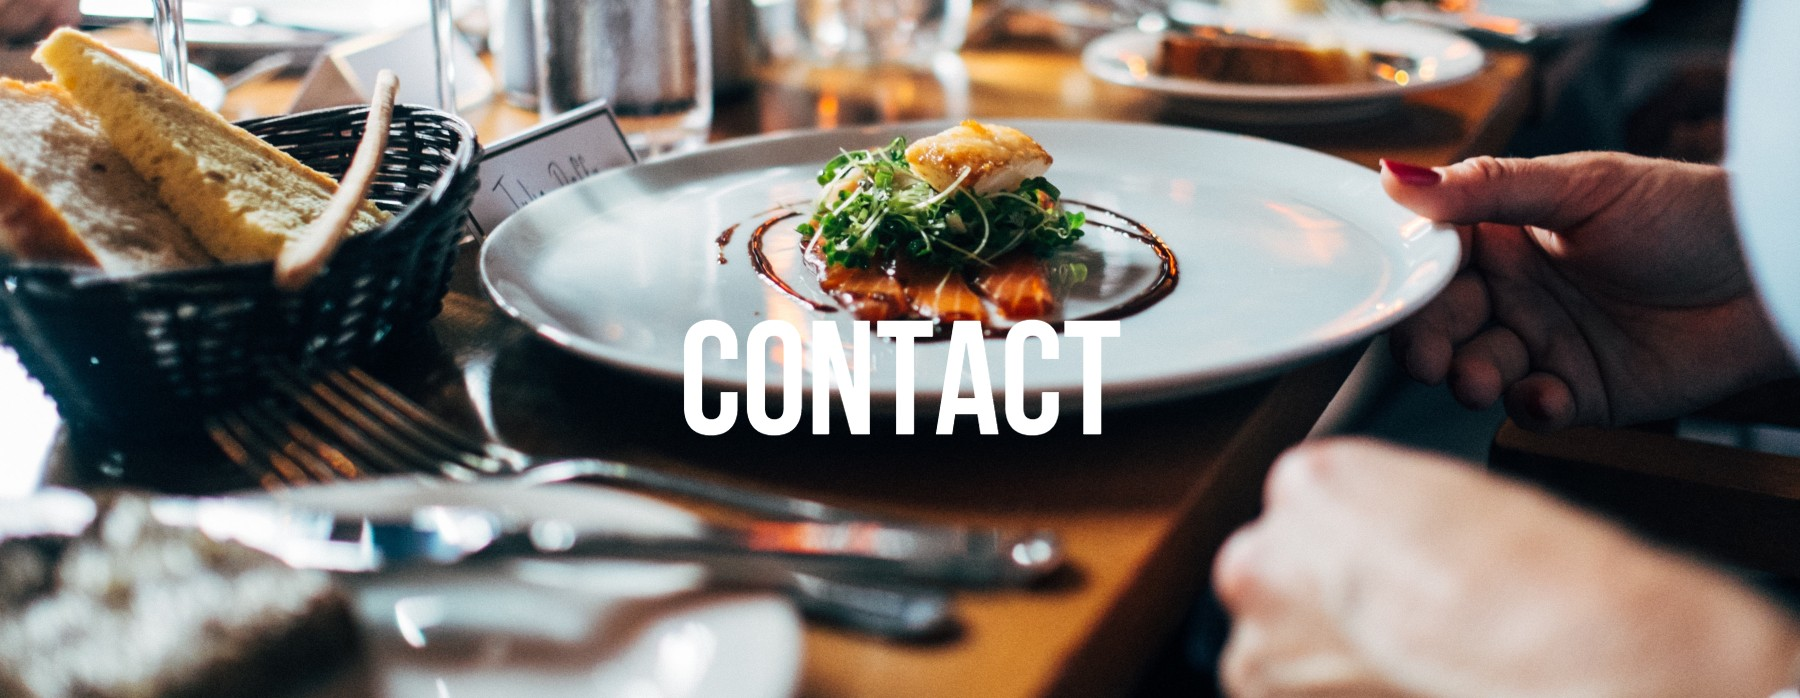
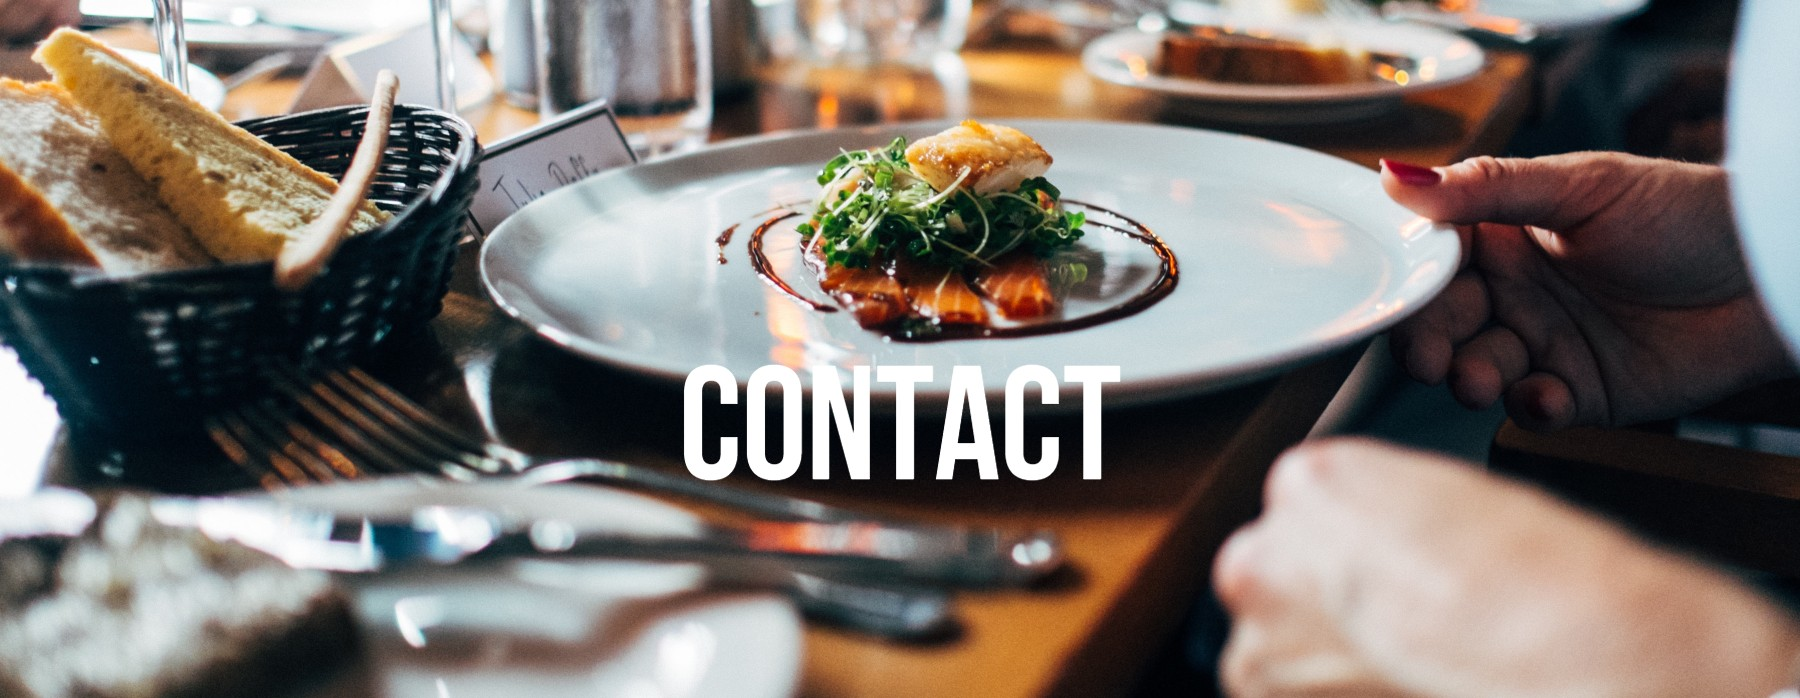
g

Changed region(s): [[0.3733, 0.4513, 0.6222, 0.692]]

diff --git a/css/ourstorystyle.css b/css/ourstorystyle.css
@@ -19,7 +19,7 @@
     padding-right:8%;
     padding-left:8%;
     color:black;
-    padding-top:2rem;
+    padding-top:2.2rem;
   }
   #ourstoryP{
     text-align: center;

diff --git a/css/contactstyle.css b/css/contactstyle.css
@@ -22,7 +22,7 @@ label{
   flex-wrap: wrap;
   justify-content:center;
   text-align:center;
-  padding-top:2rem;
+  padding-top:2.4rem;
 }
 address{
   font-size:1.2rem;
